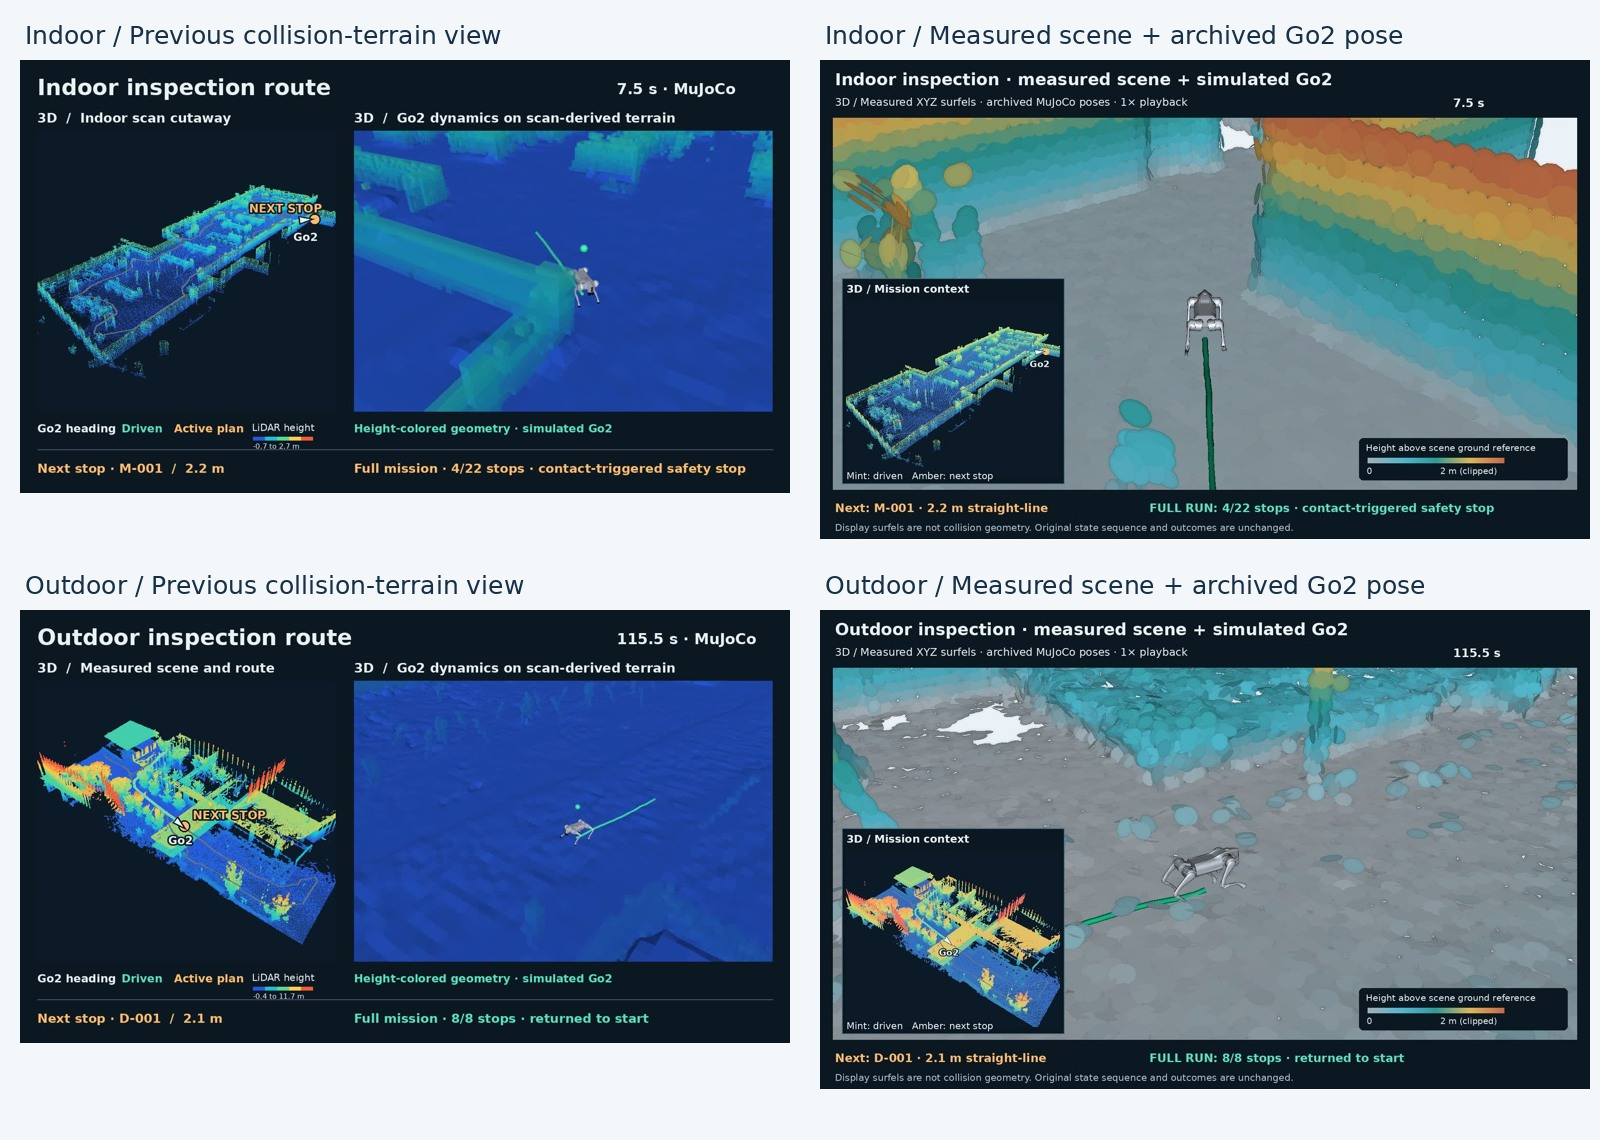
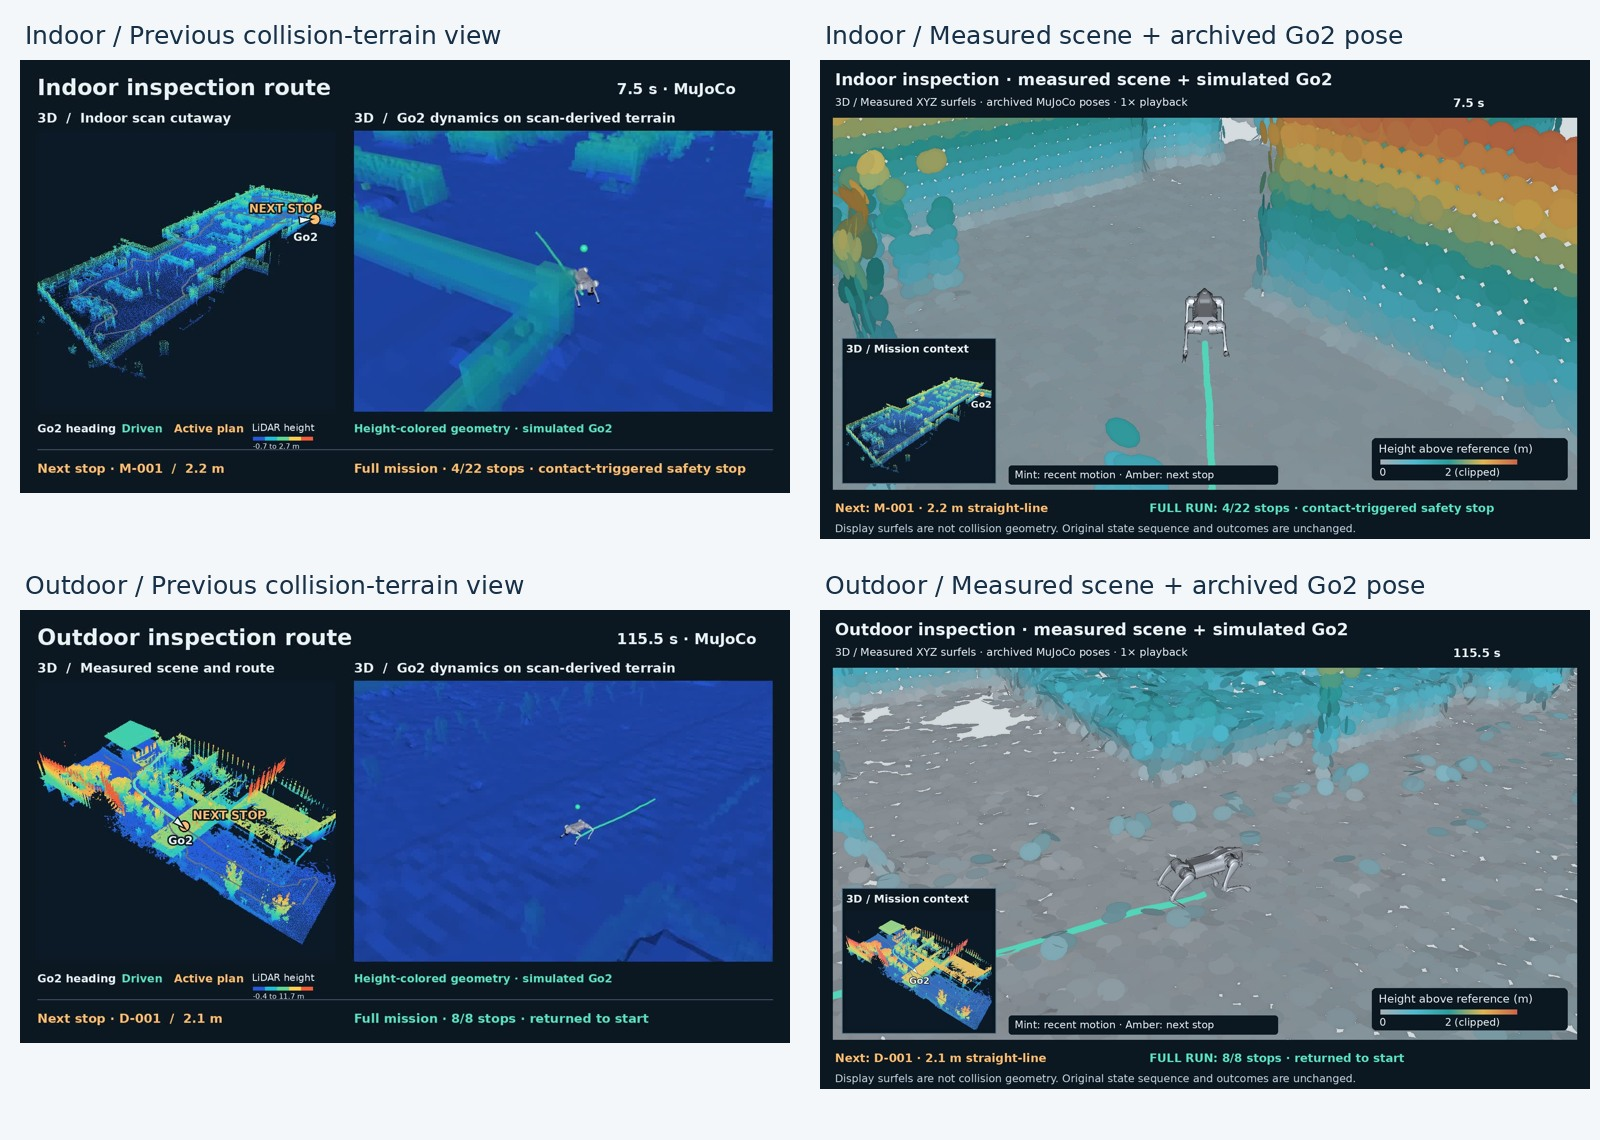
Reduce surfel footprints and depth outlines after visual review

diff --git a/examples/measured_renderer.py b/examples/measured_renderer.py
@@ -35,6 +35,18 @@ class MeasuredRenderer:
         levels = numpy_to_vtk(np.ascontiguousarray(local[:, 2]), deep=True)
         levels.SetName("height")
         poly.GetPointData().SetScalars(levels)
+        locator = vtk.vtkStaticPointLocator()
+        locator.SetDataSet(poly)
+        locator.BuildLocator()
+        nearest = vtk.vtkIdList()
+        radii = np.empty(len(local), dtype=np.float32)
+        for i, point in enumerate(local):
+            locator.FindClosestNPoints(5, point, nearest)
+            neighbor = local[nearest.GetId(nearest.GetNumberOfIds() - 1)]
+            radii[i] = np.clip(0.7 * np.linalg.norm(neighbor - point), 0.045, 0.095)
+        radius_array = numpy_to_vtk(radii, deep=True)
+        radius_array.SetName("display_radius")
+        poly.GetPointData().AddArray(radius_array)
         normals = vtk.vtkPCANormalEstimation()
         normals.SetInputData(poly)
         normals.SetSampleSize(16)
@@ -43,7 +55,7 @@ class MeasuredRenderer:
         normal_poly = normals.GetOutput()
         normal_poly.GetPointData().GetNormals().SetName("Normals")
         disk = vtk.vtkDiskSource()
-        disk.SetOuterRadius(0.105)
+        disk.SetOuterRadius(1.0)
         disk.SetInnerRadius(0)
         disk.SetCircumferentialResolution(12)
         disk.SetRadialResolution(1)
@@ -55,7 +67,10 @@ class MeasuredRenderer:
         mapper = vtk.vtkGlyph3DMapper()
         mapper.SetInputData(normal_poly)
         mapper.SetSourceConnection(transformed.GetOutputPort())
-        mapper.ScalingOff()
+        mapper.SetScaleArray("display_radius")
+        mapper.SetScaleModeToScaleByMagnitude()
+        mapper.SetScaleFactor(1.0)
+        mapper.ScalingOn()
         mapper.SetOrientationArray("Normals")
         mapper.SetOrientationModeToDirection()
         mapper.OrientOn()
@@ -73,7 +88,7 @@ class MeasuredRenderer:
         actor.GetProperty().SetAmbient(0.65)
         actor.GetProperty().SetDiffuse(0.35)
         self.renderer = vtk.vtkRenderer()
-        self.renderer.SetBackground(0.92, 0.95, 0.97)
+        self.renderer.SetBackground(0.835, 0.862, 0.878)
         self.renderer.AddActor(actor)
         self.window = vtk.vtkRenderWindow()
         self.window.SetOffScreenRendering(1)
@@ -118,6 +133,27 @@ class MeasuredRenderer:
             mesh_actor.SetUserMatrix(matrix)
             self.renderer.AddActor(mesh_actor)
             self.meshes.append((geom, matrix))
+        self.shadows = []
+        for radius, opacity in [
+            (0.45, 0.025),
+            (0.36, 0.035),
+            (0.27, 0.045),
+            (0.18, 0.055),
+        ]:
+            disk = vtk.vtkDiskSource()
+            disk.SetOuterRadius(radius)
+            disk.SetInnerRadius(0)
+            disk.SetCircumferentialResolution(40)
+            shadow_mapper = vtk.vtkPolyDataMapper()
+            shadow_mapper.SetInputConnection(disk.GetOutputPort())
+            shadow = vtk.vtkActor()
+            shadow.SetMapper(shadow_mapper)
+            shadow.SetScale(1, 0.55, 1)
+            shadow.GetProperty().SetColor(0.08, 0.10, 0.12)
+            shadow.GetProperty().SetOpacity(opacity)
+            shadow.GetProperty().LightingOff()
+            self.renderer.AddActor(shadow)
+            self.shadows.append(shadow)
         self.trace_points = vtk.vtkPoints()
         self.trace_poly = vtk.vtkPolyData()
         self.trace_poly.SetPoints(self.trace_points)
@@ -129,7 +165,8 @@ class MeasuredRenderer:
         trace_mapper.SetInputConnection(tube.GetOutputPort())
         trace_actor = vtk.vtkActor()
         trace_actor.SetMapper(trace_mapper)
-        trace_actor.GetProperty().SetColor(0.06, 0.8, 0.57)
+        trace_actor.GetProperty().SetColor(0.33, 0.84, 0.73)
+        trace_actor.GetProperty().LightingOff()
         self.renderer.AddActor(trace_actor)
         self.capture = vtk.vtkWindowToImageFilter()
         self.capture.SetInput(self.window)
@@ -137,6 +174,8 @@ class MeasuredRenderer:
         self.point_count = len(local)
 
     def render(self, data, trace):
+        for shadow in self.shadows:
+            shadow.SetPosition(data.qpos[0], data.qpos[1], float(trace[-1, 2] - 0.025))
         for geom, matrix in self.meshes:
             rotation = data.geom_xmat[geom].reshape(3, 3)
             for row in range(3):
@@ -152,7 +191,7 @@ class MeasuredRenderer:
         self.trace_poly.Modified()
         camera = self.renderer.GetActiveCamera()
         camera.SetFocalPoint(*(data.qpos[:3] + [0, 0, 0.1]))
-        camera.SetPosition(*(data.qpos[:3] + np.array([-0.7, -0.8, 0.6]) * 5))
+        camera.SetPosition(*(data.qpos[:3] + np.array([-0.7, -0.8, 0.6]) * 4.5))
         camera.SetViewUp(0, 0, 1)
         camera.SetClippingRange(0.03, 1000)
         self.renderer.SetPass(self.edl)
@@ -174,7 +213,7 @@ class MeasuredRenderer:
             .reshape(height, width, 3)[::-1]
             .copy()
         )
-        return np.rint(0.35 * shaded + 0.65 * base).astype(np.uint8)
+        return np.rint(0.15 * shaded + 0.85 * base).astype(np.uint8)
 
     def close(self):
         self.edl.ReleaseGraphicsResources(self.window)

diff --git a/examples/render_measured_patrol.py b/examples/render_measured_patrol.py
@@ -90,7 +90,7 @@ class SceneContext:
         d.text(
             (x - 20, y + 15),
             "Go2",
-            font=font(21, True),
+            font=font(32, True),
             fill=WHITE,
             stroke_width=2,
             stroke_fill=BG,
@@ -183,22 +183,20 @@ def main():
             inset = context.render(
                 route, np.vstack([qpos[: i + 1 : 5, :2], qpos[i, :2]]), goal, heading
             )
-            d.rectangle((51, 510, 571, 991), fill=BG, outline="#50718a", width=2)
-            d.text((62, 520), "3D / Mission context", font=font(25, True), fill=WHITE)
-            image.paste(inset, (61, 565))
+            d.rectangle((51, 650, 411, 990), fill=BG, outline="#50718a", width=2)
+            d.text((61, 660), "3D / Mission context", font=font(25, True), fill=WHITE)
+            image.paste(inset.resize((340, 279), Image.Resampling.LANCZOS), (61, 702))
             d = ImageDraw.Draw(image)
+            d.rounded_rectangle((441, 948, 1070, 992), radius=7, fill=BG)
             d.text(
-                (62, 959), "Mint: driven   Amber: next stop", font=font(22), fill=WHITE
-            )
-            d.rounded_rectangle((1260, 884, 1747, 982), radius=10, fill=BG)
-            d.text(
-                (1276, 894),
-                "Height above scene ground reference",
-                font=font(21),
+                (455, 955),
+                "Mint: recent motion · Amber: next stop",
+                font=font(24),
                 fill=WHITE,
             )
+            d.rounded_rectangle((1290, 884, 1747, 982), radius=10, fill=BG)
+            d.text((1306, 893), "Height above reference (m)", font=font(26), fill=WHITE)
             for k in range(320):
-                h = renderer.floor + renderer.height_span * k / 319
                 position = k / 319 * 4
                 j = min(3, int(position))
                 colors = np.array(
@@ -210,12 +208,9 @@ def main():
                         + colors[j + 1] * (position - j)
                     ).astype(int)
                 )
-                d.line((1280 + k, 930, 1280 + k, 942), fill=rgb)
+                d.line((1310 + k, 934, 1310 + k, 945), fill=rgb)
             d.text(
-                (1278, 949),
-                f"0                         {renderer.height_span:g} m (clipped)",
-                font=font(20),
-                fill=WHITE,
+                (1308, 949), "0                  2 (clipped)", font=font(24), fill=WHITE
             )
             full = f"{summary['completed_inspection_targets']}/{summary['required_inspection_targets']} stops"
             outcome = (
@@ -240,8 +235,8 @@ def main():
             d.text(
                 (35, 1080),
                 "Display surfels are not collision geometry. Original state sequence and outcomes are unchanged.",
-                font=font(22),
-                fill="#b0c5d4",
+                font=font(25),
+                fill="#c5d5e0",
             )
             if args.preview or i == keep[len(keep) // 2]:
                 image.save(
@@ -265,7 +260,9 @@ def main():
                 point_count=renderer.point_count,
                 ground_reference_z_m=renderer.floor,
                 height_span_m=renderer.height_span,
-                surfel_radius_m=0.105,
+                surfel_radius_range_m=[0.045, 0.095],
+                surfel_radius_rule="clip(0.7 * distance_to_4th_neighbor, 0.045, 0.095)",
+                edl_weight=0.15,
                 pca_neighbors=16,
                 displayed_time_s=[float(times[keep[0]]), float(times[keep[-1]])],
             ),

diff --git a/tools/render_inspection_figures.py b/tools/render_inspection_figures.py
@@ -4,7 +4,10 @@ Export the masters with the official draw.io Desktop CLI; see docs/visual-compar
 """
 
 from pathlib import Path
-import json, base64, xml.etree.ElementTree as ET
+import base64
+import io
+import json
+import xml.etree.ElementTree as ET
 import numpy as np
 from PIL import Image, ImageDraw, ImageFont
 from tools.point_cloud import read_xyz, map_view
@@ -176,8 +179,8 @@ for i, scene in enumerate(("indoor", "outdoor")):
     ft = ImageFont.truetype("DejaVuSans.ttf", 19)
     dr.line((20, 393, 20 + scale * 5, 393), fill=FG, width=3)
     dr.text((20, 399), "5 m", font=ft, fill=FG, stroke_width=1, stroke_fill=BG)
-    path = A / f"{scene}-overview-panel.png"
-    im.save(path)
+    buffer = io.BytesIO()
+    im.save(buffer, format="PNG")
     x = 42 + i * 780
     box(
         g,
@@ -189,7 +192,7 @@ for i, scene in enumerate(("indoor", "outdoor")):
         size=32,
         bold=True,
     )
-    data = base64.b64encode(path.read_bytes()).decode()
+    data = base64.b64encode(buffer.getvalue()).decode()
     box(
         g,
         x,

diff --git a/docs/visual-comparison.md b/docs/visual-comparison.md
@@ -47,11 +47,13 @@ The 3D scene tours retain cells with at least two returns in a 0.18 m voxel for 
 
 The main viewport now combines the original finite XYZ measurements with the Go2 visual meshes posed from each saved MuJoCo state. A fixed oblique mission-context inset shows the same timestamp, driven trace and next observation pose. The excerpts remain indoor 2–13 s and outdoor 110–121 s, at 1×; the full recorded outcomes remain 4/22 before a contact-triggered stop and 8/8 with return.
 
-The local display uses tangent disks (surfels), centered on unchanged measured samples. PCA normals use 16 neighbors; disk radius is 0.105 m with 12 sides. GPU glyph rendering adds no semantic labels or phototextures. Eye-dome depth shading is blended at 35% with the base render to keep depth boundaries visible without overwhelming the height colors. The neutral floor, cyan, teal, amber and red encode height, not object category.
+The local display uses tangent disks (surfels), centered on unchanged measured samples. PCA normals use 16 neighbors; disk radius is `clip(0.7 × fourth-neighbor distance, 0.045, 0.095)` m with 12 sides. GPU glyph rendering adds no semantic labels or phototextures. Eye-dome depth shading is blended at 15% with the base render to keep depth boundaries visible without overwhelming the height colors. The neutral floor, cyan, teal, amber and red encode height, not object category.
 
-A fixed eighth-percentile Z of the excerpt's selected neighborhood supplies a **display ground reference**, distinct from the planner's per-cell ground estimate. The color range is 0–2 m above that reference, clipped outside the range. The indoor display retains Z between that reference minus 0.3 m and plus 2.0 m; outdoor retains through plus 3.5 m. These cutaways and footprints can obscure gaps and fine geometry; they are not a surface survey or a replacement collision model. The robot's silver display material improves contrast. Kinematics are evaluated with `mj_forward`; the renderer never calls `mj_step` or changes recorded states.
+A fixed eighth-percentile Z of the excerpt's selected neighborhood supplies a **display ground reference**, distinct from the planner's per-cell ground estimate. The color range is 0–2 m above that reference, clipped outside the range. The indoor display retains Z between that reference minus 0.3 m and plus 2.0 m; outdoor retains through plus 3.5 m. These cutaways and footprints can obscure gaps and fine geometry; they are not a surface survey or a replacement collision model. The robot's silver display material improves contrast. A faint synthetic ellipse below the robot is a display grounding cue, not a measured shadow or evidence of foot contact. The camera is 10% closer than the first enlarged candidate, and the context inset leaves more room for the recent trace. Kinematics are evaluated with `mj_forward`; the renderer never calls `mj_step` or changes recorded states.
 
-During selection, original-point spheres, several Gaussian-density scales, tangent disks, and Hoppe surface reconstruction were compared at multiple camera angles. Large density footprints exaggerated walls and ground; implicit reconstruction added unsupported surfaces. Tangent disks retained the scan positions and made nearby geometry easier to read. The archived collision model remains authoritative for the recorded physical simulation.
+During selection, original-point spheres, several Gaussian-density scales, tangent disks, and Hoppe surface reconstruction were compared at multiple camera angles. Large density footprints exaggerated walls and ground; implicit reconstruction added unsupported surfaces. Tangent disks retained the scan positions and made nearby geometry easier to read. The local presets below use the same archived midpoint poses with different display footprints, cameras and clipping; this is a visual selection, not a controlled algorithm benchmark.
+
+![Local rendering presets](../assets/patrol-render-presets.jpg) The archived collision model remains authoritative for the recorded physical simulation.
 
 ![Previous and enlarged display at the same recorded timestamps](../assets/patrol-display-comparison.jpg)
 
